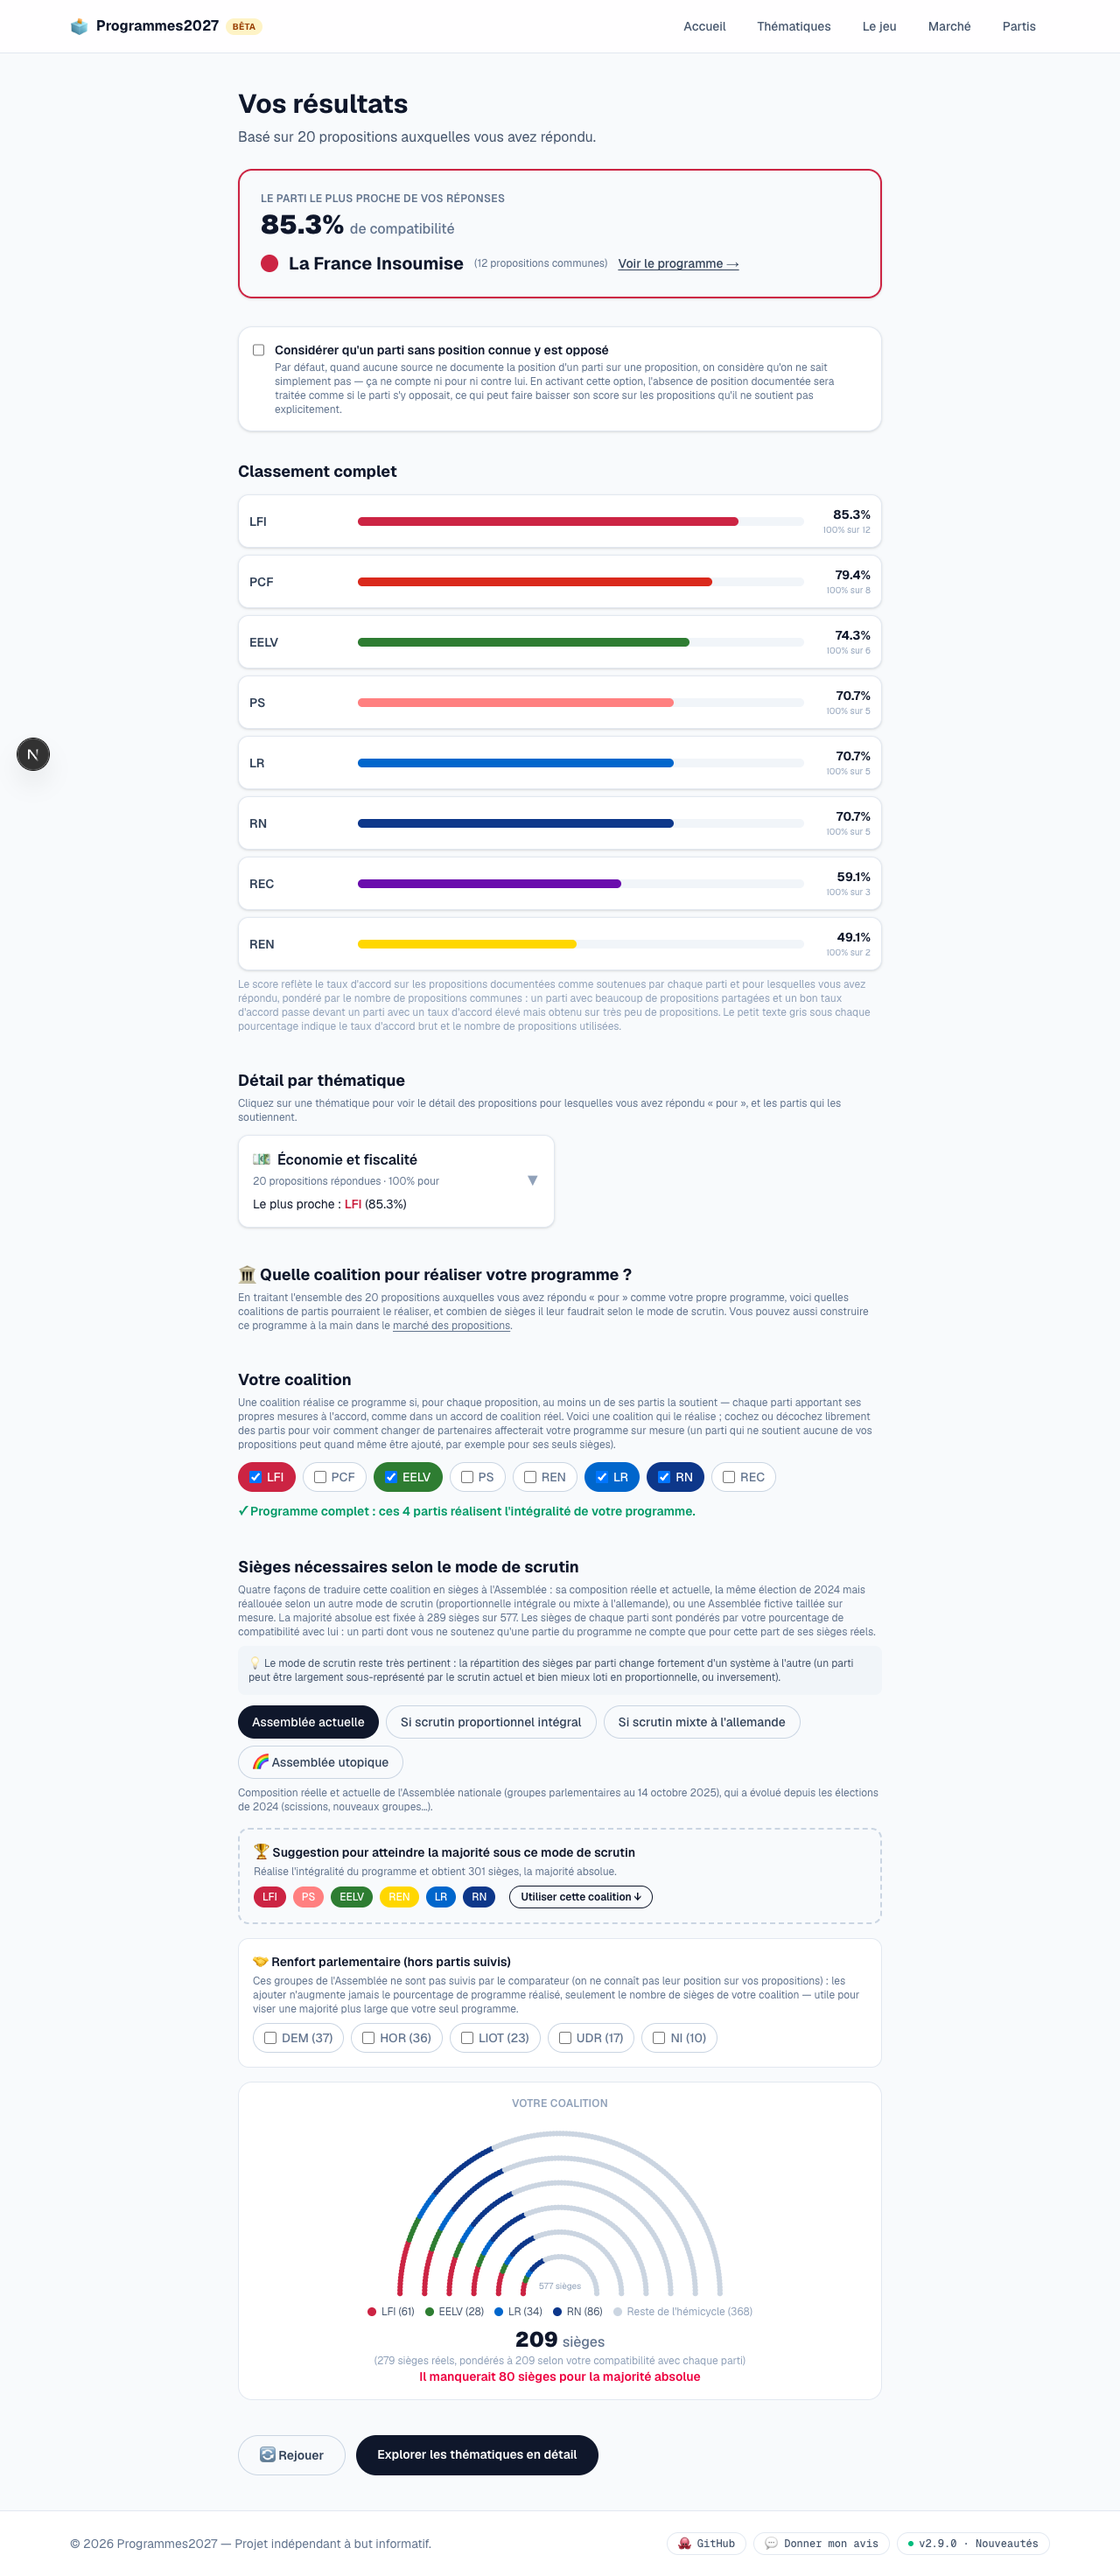
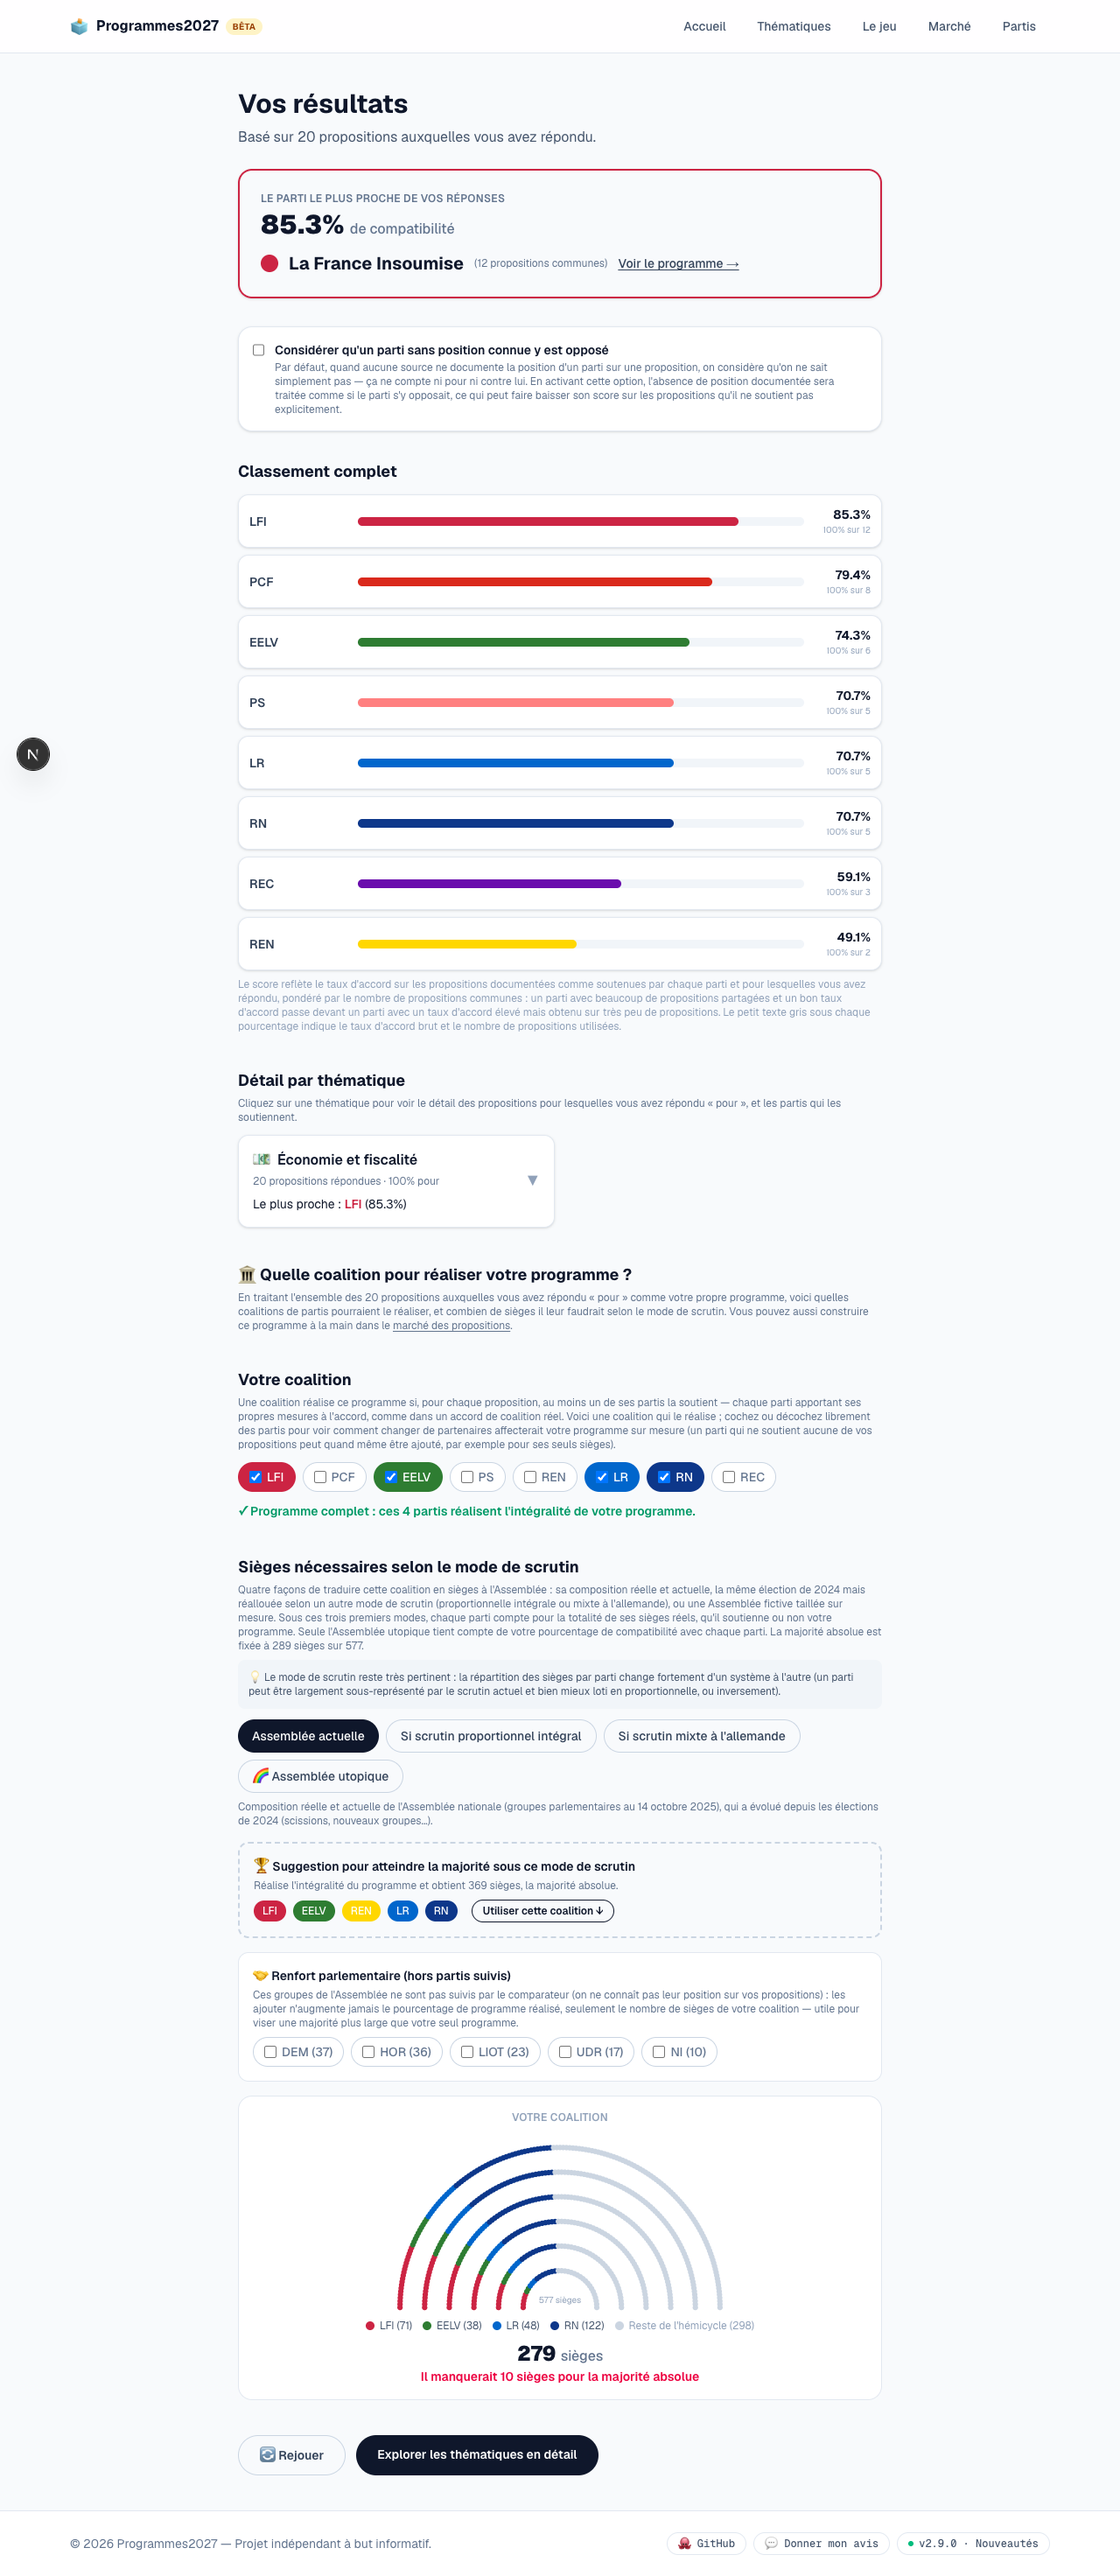
Only weight seats by compatibility in utopian mode, use real seats elsewhere

Changed region(s): [[0.2188, 0.625, 0.7812, 0.9375]]

diff --git a/src/components/CoalitionExplorer.tsx b/src/components/CoalitionExplorer.tsx
@@ -250,10 +250,13 @@ export function CoalitionExplorer({
           l&apos;Assemblée : sa composition réelle et actuelle, la même
           élection de 2024 mais réallouée selon un autre mode de
           scrutin (proportionnelle intégrale ou mixte à l&apos;allemande),
-          ou une Assemblée fictive taillée sur mesure. La majorité
-          absolue est fixée à {MAJORITY_THRESHOLD} sièges sur {TOTAL_SEATS}.
+          ou une Assemblée fictive taillée sur mesure. Sous ces trois
+          premiers modes, chaque parti compte pour la totalité de ses
+          sièges réels, qu&apos;il soutienne ou non votre programme.
           {partyCompatibility &&
-            " Les sièges de chaque parti sont pondérés par votre pourcentage de compatibilité avec lui : un parti dont vous ne soutenez qu'une partie du programme ne compte que pour cette part de ses sièges réels."}
+            " Seule l'Assemblée utopique tient compte de votre pourcentage de compatibilité avec chaque parti."}{" "}
+          La majorité absolue est fixée à {MAJORITY_THRESHOLD} sièges sur{" "}
+          {TOTAL_SEATS}.
         </p>
         <p className="mt-2 rounded-lg bg-slate-100 p-3 text-xs text-slate-600">
           💡 Le mode de scrutin reste très pertinent : la répartition des
@@ -396,27 +399,18 @@ export function CoalitionExplorer({
               ? computeUtopianSeats(selectedParties, partyCompatibility)
               : computeSeats(system);
 
-          // Weight each selected party's seats by compatibility (if
-          // available) so the headline seat count and the hemicycle's
-          // colored dots always match exactly — the "lost" seats from
-          // weighting go back into the grey "reste" bucket. Utopian
-          // mode is already compatibility-weighted at the source
-          // (`computeUtopianSeats`), so it's left untouched here.
-          const seatsByParty: SeatsByParty = { ...rawSeatsByParty };
-          let otherSeats = rawOtherSeats;
-          let trackedSeats = 0;
-          for (const id of selectedParties) {
-            const raw = rawSeatsByParty[id] ?? 0;
-            if (partyCompatibility && system !== "utopique") {
-              const weight = (partyCompatibility[id] ?? 100) / 100;
-              const weighted = Math.round(raw * weight);
-              seatsByParty[id] = weighted;
-              otherSeats += raw - weighted;
-              trackedSeats += weighted;
-            } else {
-              trackedSeats += raw;
-            }
-          }
+          // Compatibility only ever changes anything in "utopique" mode
+          // (already applied above, at the source, by
+          // `computeUtopianSeats`): under "actuelle"/"proportionnelle"/
+          // "mixte" this shows the real, full seat count of each party —
+          // your compatibility with a party doesn't change how many real
+          // deputies it actually has.
+          const seatsByParty: SeatsByParty = rawSeatsByParty;
+          const otherSeats = rawOtherSeats;
+          const trackedSeats = selectedParties.reduce(
+            (sum, id) => sum + (rawSeatsByParty[id] ?? 0),
+            0
+          );
 
           const extraGroups = selectedSupportGroups.map((id) => {
             const group = OTHER_ASSEMBLY_GROUPS.find((g) => g.id === id)!;
@@ -426,9 +420,6 @@ export function CoalitionExplorer({
           const supportSeats = extraGroups.reduce((sum, g) => sum + g.count, 0);
 
           const seats = trackedSeats + supportSeats;
-          const rawSeats =
-            selectedParties.reduce((sum, id) => sum + (rawSeatsByParty[id] ?? 0), 0) +
-            supportSeats;
           const hasMajority = seats >= MAJORITY_THRESHOLD;
           return (
             <div className="mt-4 rounded-2xl border border-slate-200 bg-white p-4">
@@ -446,12 +437,6 @@ export function CoalitionExplorer({
               <p className="mt-2 text-center text-2xl font-black text-slate-900">
                 {seats} <span className="text-base font-medium text-slate-500">sièges</span>
               </p>
-              {seats !== rawSeats && (
-                <p className="text-center text-xs text-slate-400">
-                  ({rawSeats} sièges réels, pondérés à {seats} selon votre
-                  compatibilité avec chaque parti)
-                </p>
-              )}
               {system === "utopique" && (
                 <p className="text-center text-xs text-slate-400">
                   Assemblée fictive : les {TOTAL_SEATS - MAJORITY_THRESHOLD}{" "}

diff --git a/src/lib/electoralSystems.ts b/src/lib/electoralSystems.ts
@@ -315,16 +315,13 @@ export function computeUtopianSeats(
 }
 
 /**
- * Total seats a coalition would hold under a given electoral system. If
- * `compatibility` is provided, each party's seats are weighted by its
- * compatibility percentage (see `PartyCompatibility`) instead of counted
- * in full — the result is rounded to the nearest seat.
- *
- * Under the "utopian" system, this is trivially `MAJORITY_THRESHOLD` by
- * construction (see `computeUtopianSeats`) regardless of `compatibility`
- * — the total is always exactly a majority, only the split *between*
- * the coalition's parties (handled separately by `computeUtopianSeats`)
- * reflects compatibility in that mode.
+ * Total seats a coalition would hold under a given electoral system.
+ * Compatibility weighting (`compatibility`) only ever applies under the
+ * "utopian" system (handled entirely by `computeUtopianSeats`, which
+ * `coalitionSeats` just totals up below): under every other system, a
+ * party's seats are counted in full regardless of your compatibility
+ * with it — your compatibility with a party doesn't change how many
+ * real deputies it actually has.
  */
 export function coalitionSeats(
   parties: PartyId[],
@@ -332,15 +329,15 @@ export function coalitionSeats(
   compatibility?: PartyCompatibility
 ): number {
   if (system === "utopique") {
-    return parties.length === 0 ? 0 : MAJORITY_THRESHOLD;
+    return parties.length === 0
+      ? 0
+      : Object.values(computeUtopianSeats(parties, compatibility).seatsByParty).reduce(
+          (sum, s) => sum + (s ?? 0),
+          0
+        );
   }
   const { seatsByParty } = computeSeats(system);
-  const total = parties.reduce((sum, id) => {
-    const raw = seatsByParty[id] ?? 0;
-    const weight = compatibility ? (compatibility[id] ?? 100) / 100 : 1;
-    return sum + raw * weight;
-  }, 0);
-  return Math.round(total);
+  return parties.reduce((sum, id) => sum + (seatsByParty[id] ?? 0), 0);
 }
 
 export interface MajorityCoalitionResult {
